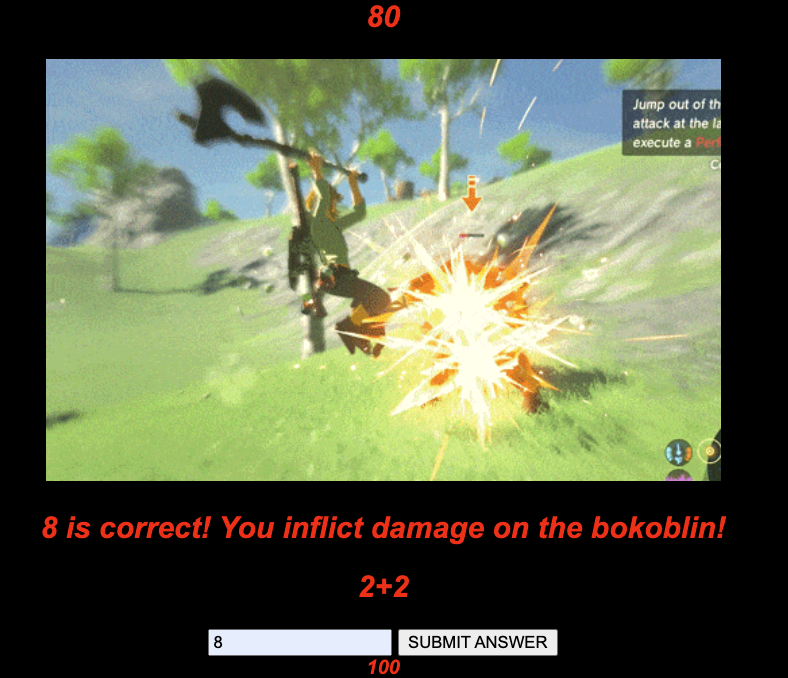
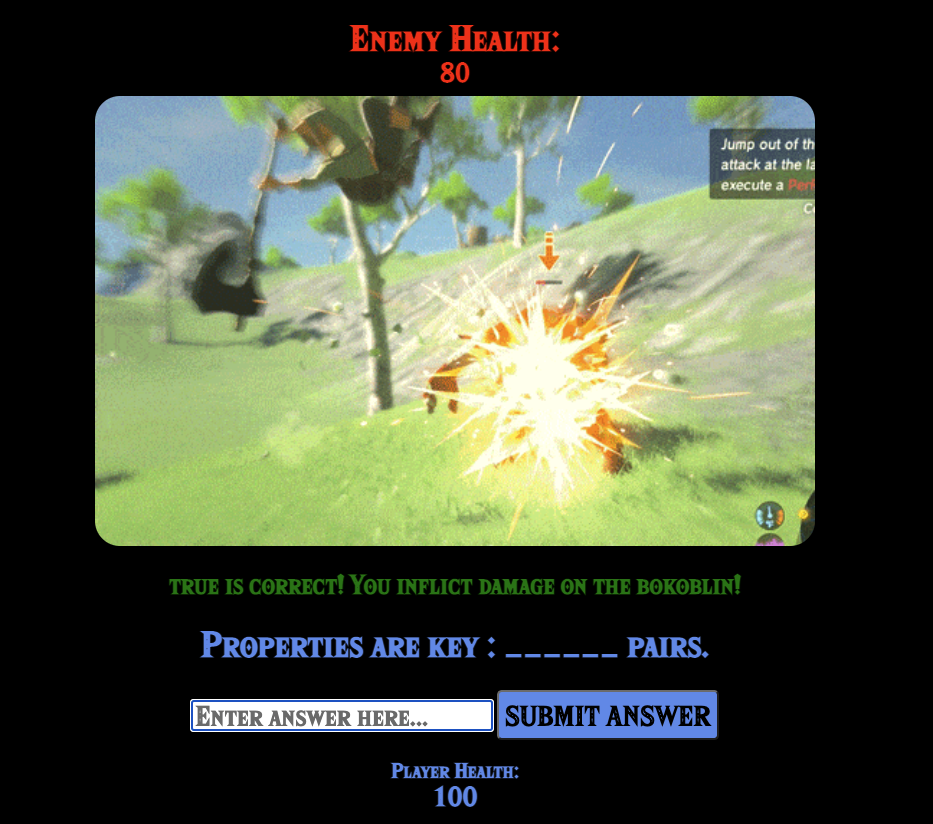
edit readme

diff --git a/README.md b/README.md
@@ -8,29 +8,90 @@ Play the game [here](https://breyshaw.github.io/Code-Hero/).
 I needed to find a fun and engaging way to review fundamental Javscript objects. I thought a battle structure of the quiz would be an entertaining and challenging way to make sure one knows these fundemental concepts. 
 
 Here is the initial battle wire-frame:
+<p></p>
 <img src="./Images/Battle%20Screen%20Wireframe.png" width="450" height="300">
 
 
 Here is the battle, post styling:
+<p></p>
 <img src="./Images/currentBattle.png" width="450" height="300">     
 
-In the image the previous question was 4+4=?
-Once the player's answer is submitted, a new question is randomly generated. Against this specific enemy, submitting the correct ans (8) will deduct 20 points from the enemy's health. If the answer is incorrect, 20 points are deducted from the player's health.
+In the image the previous question was a True or False.
+Once the player's answer is submitted, a new question is randomly generated. Against this specific enemy, submitting the correct answer will deduct 20 points from the enemy's health. If the submitted answer is incorrect, 20 points are deducted from the player's health.
 
 
 ## Technology Implemented:
-Javscript
-CSS
-HTML
-gif
+### Javascript
+<p></p>
 
-## Credits:
-gifs
-INTRO: https://gfycat.com/sociableaggravatingalligator
+### CSS
 
+<p></p>
 
+### HTML
 
-## PseudoCode:
+<p></p>
+
+### gif
 
 ## Stretch Goals:
 -Add additional path
+<p></p>
+-Add more challenge questions
+<p></p>
+
+## Credits:
+
+### Font
+
+Zelda Universe's Hylia Serif
+https://zeldauniverse.net/media/fonts/
+
+### Images and gifs:
+<p></p>
+Wake up Link!
+<p></p>
+    
+[Source](https://gfycat.com/sociableaggravatingalligator)
+
+<p></p>
+Bokoblin jpeg
+<p></p>
+
+[Source](https://oyster.ignimgs.com/mediawiki/apis.ign.com/the-legend-of-zelda-hd/8/88/Bokoblin_pose.jpg)
+
+<p></p>
+Lynel jpeg
+<p></p>
+
+[Source](https://www.zeldadungeon.net/wiki/images/9/9e/Gold-lynel-artwork.jpg)
+
+<p></p>
+Triforce gif
+<p></p>
+
+[Source](https://c.tenor.com/S7yo_fqS9GMAAAAM/triforce-ocarina-of-time.gif)
+
+<p></p>
+Mop wielding Bokoblin gif
+<p></p>
+
+[Source](https://64.media.tumblr.com/8a88c081f5acd1242b4d9e8b792027f8/tumblr_oju8glnAMJ1vy313ho1_500.gifv)
+
+<p></p>
+Parry Rush Lynel gif
+<p></p>
+
+[Source](https://i.makeagif.com/save/T9JLLu)
+
+<p></p>
+Parry Rush Bokoblin gif
+<p></p>
+
+[Source](https://64.media.tumblr.com/4f6915cc62d98e7a148f73e4db96cf7c/tumblr_om5t0xlru51tulcmho1_500.gif)
+
+<p></p>
+You died Dark Souls gif
+<p></p>
+
+[Source](https://i.giphy.com/media/TbONGqAdpTWQW3Hz5V/giphy.webp)
